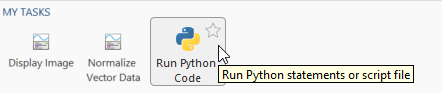
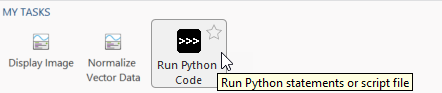
Updating README and images

Changed region(s): [[0.3235, 0.172, 0.9412, 0.9892]]

diff --git a/README.md b/README.md
@@ -96,4 +96,4 @@ The license is available in the License file within this repository
 
 Copyright © 2022 MathWorks, Inc. All rights reserved.
 
-"Python" and the Python logos are trademarks or registered trademarks of the Python Software Foundation, used by MathWorks with permission from the Foundation.
+"Python" is a registered trademark of the Python Software Foundation.
